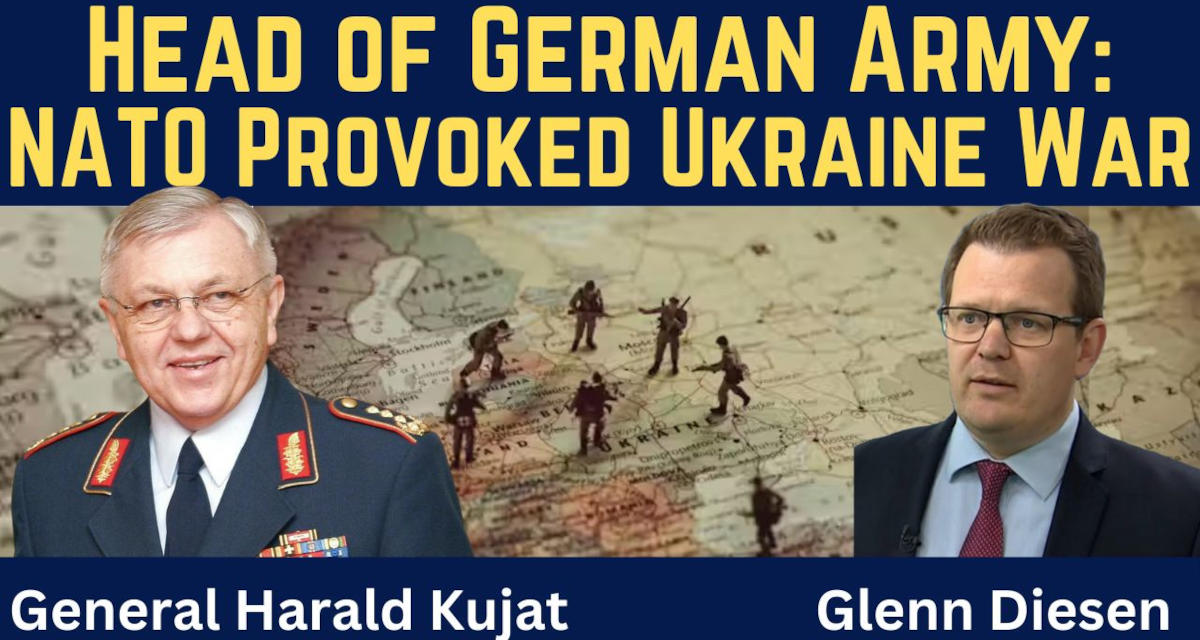
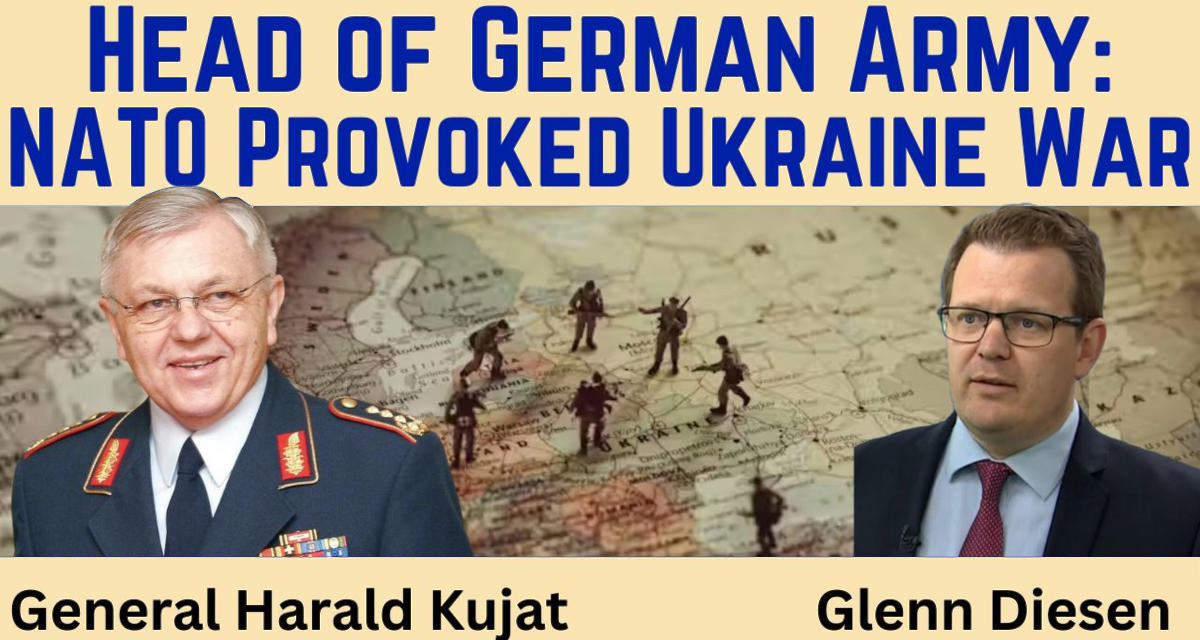
337-general-harald-kujat-nato-provoked-ukraine-war.md: 1st edt., p.2

diff --git a/html/337-general-harald-kujat-nato-provoked-ukraine-war.html b/html/337-general-harald-kujat-nato-provoked-ukraine-war.html
@@ -18,11 +18,11 @@
 <style>#printlink { display: inline; } @page { size: legal; margin: 0.50in 13.88mm 0.50in 13.88mm; zoom: 100%; } @media print { html { zoom: 100%; } }</style>
 <p class='topbar'></p>
 <div class='topbar' width='800px' translate='no'><b id='menu' onClick='nextStylesheet()'>&thinsp;&#9783;&thinsp;&Ropf;</b> &thinsp;&mdash;&thinsp; &#8543;&#8239;release: <b class='topbar'>2025-09-21&nbsp;<sup class='date-type topbar' id='datenote'>(&hairsp;<a href='#date-legenda' class='date-type topbar'>2</a>&hairsp;)</sup></b>  &thinsp;&mdash;&thinsp; rev.: <b class='topbar
-'>4</b rev_num='
+'>5</b rev_num='
 '> &thinsp;&mdash;&thinsp; transl.:&nbsp; <a class='topbar' href='https://robang74-github-io.translate.goog/roberto-a-foglietta/html/337-general-harald-kujat-nato-provoked-ukraine-war?_x_tr_sl=it&_x_tr_tl=en&_x_tr_hl=en-EN&_x_tr_pto=wapp' target='_blank' rel='noopener noreferrer'>EN</a> &nbsp;<b>&middot;</b>&nbsp; <a class='topbar' href='https://robang74-github-io.translate.goog/roberto-a-foglietta/html/337-general-harald-kujat-nato-provoked-ukraine-war?_x_tr_sl=it&_x_tr_tl=de&_x_tr_hl=de-DE&_x_tr_pto=wapp' target='_blank' rel='noopener noreferrer'>DE</a> &nbsp;<b>&middot;</b>&nbsp; <a class='topbar' href='https://robang74-github-io.translate.goog/roberto-a-foglietta/html/337-general-harald-kujat-nato-provoked-ukraine-war?_x_tr_sl=it&_x_tr_tl=fr&_x_tr_hl=fr-FR&_x_tr_pto=wapp' target='_blank' rel='noopener noreferrer'>FR</a> &nbsp;<b>&middot;</b>&nbsp; <a class='topbar' href='https://robang74-github-io.translate.goog/roberto-a-foglietta/html/337-general-harald-kujat-nato-provoked-ukraine-war?_x_tr_sl=it&_x_tr_tl=es&_x_tr_hl=es-ES&_x_tr_pto=wapp' target='_blank' rel='noopener noreferrer'>ES</a> &thinsp;&mdash;&thinsp; goto:&nbsp; <a class='topbar' href='../index.html#index'>.&#x27F0;.</a> &nbsp;<b>&middot;</b>&nbsp; <a class='topbar' href='../../chatbots-for-fun/index.html'target=_blank>C4F</a> &nbsp;<b>&middot;</b>&nbsp; <a class='topbar' href='../../chatgpt-answered-prompts/index.html'target=_blank>Q&A</a> <span id='printlink'>&thinsp;&mdash;&thinsp; <b>⎙</b>&hairsp;: <a aria-label='print this page' class='topbar' href='javascript:window.print()'>PDF</a></span>&nbsp;</div>
 <div id="firstdiv">
 <p class='topbar'></p>
-<div align="center"><img class="bwsketch" src="../img/337-general-harald-kujat-nato-provoked-ukraine-war.jpg" width="800"><br/></div>
+<div align="center"><img class="bwsketch darkinv" src="../img/337-general-harald-kujat-nato-provoked-ukraine-war.jpg" width="800"><br/></div>
 <p></p>
 <H2 id="general-harald-kujat-nato-provoked-ukraine-war">General Harald Kujat: NATO Provoked Ukraine War.</H2>
 <p></p>

diff --git a/337-general-harald-kujat-nato-provoked-ukraine-war.md b/337-general-harald-kujat-nato-provoked-ukraine-war.md
@@ -1,7 +1,7 @@
 <div id="firstdiv" created=":IT:" style="max-width: 800px; margin: auto; white-space: pre-wrap; text-align: justify;">
 <style>#printlink { display: inline; } @page { size: legal; margin: 0.50in 13.88mm 0.50in 13.88mm; zoom: 100%; } @media print { html { zoom: 100%; } }</style>
 
-<div align="center"><img class="bwsketch" src="img/337-general-harald-kujat-nato-provoked-ukraine-war.jpg" width="800"><br/></div>
+<div align="center"><img class="bwsketch darkinv" src="img/337-general-harald-kujat-nato-provoked-ukraine-war.jpg" width="800"><br/></div>
 
 ## General Harald Kujat: NATO Provoked Ukraine War.
 
